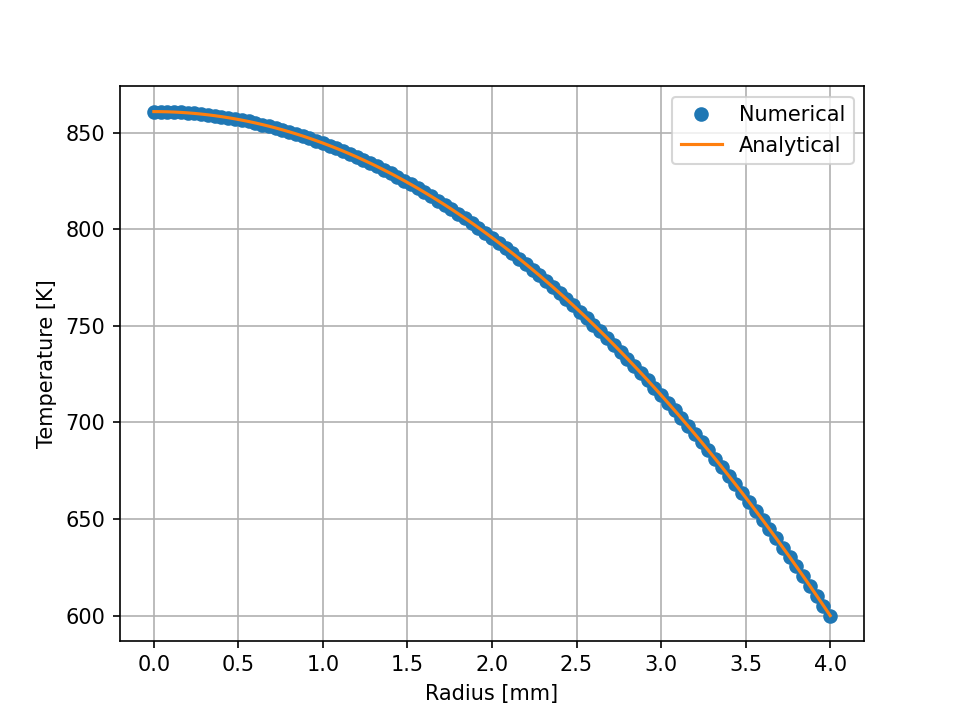
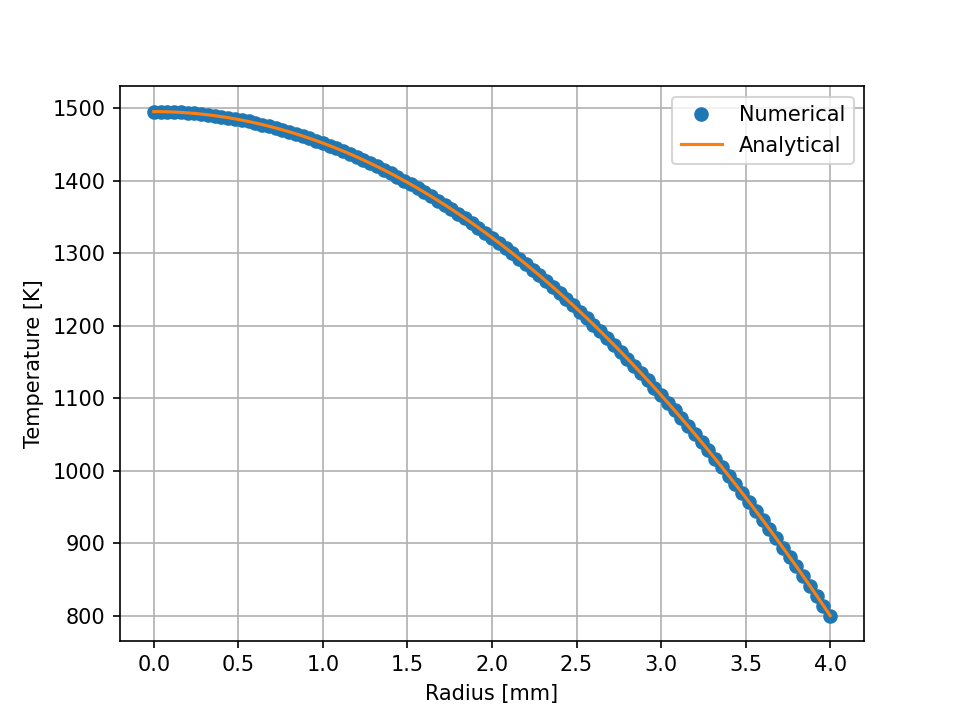
Realistic LWR operating point, README update, MATLAB name fixes and cleanup

diff --git a/python/variable_conductivity.py b/python/variable_conductivity.py
@@ -72,7 +72,6 @@ def solve_pellet_newton(
     n_iter = 0
     err = 1.0
     T_new = T_old
-    # storia = []
 
     while np.max(np.abs(err)) > tol and n_iter < max_iter:
         J = assemble_pellet_jacobian(T_old, radius, dr, k_UO2, dk_dT, d2k_dT2)
@@ -89,7 +88,7 @@ def solve_pellet_newton(
     if final_err > tol:
         raise RuntimeError(
             f"Newton did not converge: {n_iter} iterations, "
-            f"last increment {final_err:.3e}, tolerance{tol:.3e}"
+            f"last increment {final_err:.3e}, tolerance {tol:.3e}"
         )
 
     return T_new
@@ -175,8 +174,8 @@ def convergence_study(k_expr, T_wall, q_vol, R_pellet, tol, max_iter, node_count
 
 def main(
     k_expr=K_DEFAULT,
-    T_wall=600.0,
-    q_vol=150.0e6,
+    T_wall=800.0,
+    q_vol=400.0e6,
     R_pellet=4.0e-3,
     n_nodes=100,
     tol=1.0e-8,

diff --git a/python/constant_conductivity.py b/python/constant_conductivity.py
@@ -33,7 +33,7 @@ def assemble_constant_conductivity_system(
 
 
 def solve_constant_conductivity(
-    k_UO2=2.3, T_wall=600, q_vol=150.0e6, R_pellet=4.0e-3, n_nodes=100
+    k_UO2=2.3, T_wall=800.0, q_vol=400.0e6, R_pellet=4.0e-3, n_nodes=100
 ):
 
     dr = R_pellet / n_nodes
@@ -62,7 +62,7 @@ def solve_constant_conductivity(
     return radius, T_num, T_exact
 
 
-def main(k_UO2=2.3, T_wall=600, q_vol=150.0e6, R_pellet=4.0e-3, n_nodes=100):
+def main(k_UO2=2.3, T_wall=800.0, q_vol=400.0e6, R_pellet=4.0e-3, n_nodes=100):
 
     radius, T_num, T_exact = solve_constant_conductivity(
         k_UO2, T_wall, q_vol, R_pellet, n_nodes

diff --git a/tests/test_variable_conductivity.py b/tests/test_variable_conductivity.py
@@ -11,8 +11,8 @@ from variable_conductivity import (
     solve_variable_conductivity,
 )
 
-T_WALL = 600.0
-Q_VOL = 150.0e6
+T_WALL = 800.0
+Q_VOL = 400.0e6
 R_PELLET = 4.0e-3
 TOL = 1.0e-8
 MAX_ITER = 20
@@ -32,8 +32,8 @@ def test_matches_kirchhoff_closed_form():
         sp.sympify(K_DEFAULT), T_WALL, Q_VOL, R_PELLET, 100, TOL, MAX_ITER
     )
 
-    assert T[0] == pytest.approx(707.2566, abs=1e-3)
-    assert np.max(np.abs(T - kirchhoff_exact(radius))) < 5e-3
+    assert T[0] == pytest.approx(1202.8913, abs=1e-3)
+    assert np.max(np.abs(T - kirchhoff_exact(radius))) < 2e-2
 
 
 def test_constant_k_gives_parabola():

diff --git a/tests/test_constant_conductivity.py b/tests/test_constant_conductivity.py
@@ -6,7 +6,7 @@ from constant_conductivity import solve_constant_conductivity
 def test_centreline_temperature():
     radius, T_num, T_exact = solve_constant_conductivity()
 
-    assert T_num[0] == pytest.approx(860.8696, abs=1e-4)
+    assert T_num[0] == pytest.approx(1495.6522, abs=1e-4)
 
 
 @pytest.mark.parametrize("n_nodes", [10, 100, 400])

diff --git a/python/linear_solvers.py b/python/linear_solvers.py
@@ -19,9 +19,6 @@ def solve_tridiagonal_system(A, B):
         alphas[j] = A[j, j - 1] / u[j - 1]
         u[j] = A[j, j] - alphas[j] * v[j - 1]
 
-    # L = np.eye(N) + np.diag(alphas[1:N], -1)
-    # U = np.diag[u] + np.diag(v[1:N-1], 1)
-
     X[0] = B[0]
 
     for k in range(1, N):

diff --git a/matlab_prototype/01_constant_conductivity/main_constant_conductivity.m b/matlab_prototype/01_constant_conductivity/main_constant_conductivity.m
@@ -1,6 +1,6 @@
 clc,clear,close all
 
-addpath('C:\Users\mfale\Desktop\nuclear-fuel-thermal-solver\matlab_prototype\common');
+addpath(fullfile(fileparts(mfilename('fullpath')), '..', 'common'));
 
 k_UO2 = input('Enter the UO2 thermal conductivity [W/(m*K)]: ');
 if isempty(k_UO2)

diff --git a/matlab_prototype/02_variable_conductivity/main_variable_conductivity.m b/matlab_prototype/02_variable_conductivity/main_variable_conductivity.m
@@ -1,6 +1,6 @@
 clc,clear,close all
 
-addpath('C:\Users\mfale\Desktop\nuclear-fuel-thermal-solver\matlab_prototype\common');
+addpath(fullfile(fileparts(mfilename('fullpath')), '..', 'common'));
 
 syms T
 k_UO2 = input('Enter the UO2 thermal conductivity [W/(m*K)]: ');

diff --git a/README.md b/README.md
@@ -6,7 +6,7 @@ I built it between the end of August and mid-September 2026, in about three week
 
 The problem itself comes from a Fisica Tecnica (heat transfer) exercise: a fuel rod with the pellet, the cladding and the coolant around it. I kept only the pellet, since that's where the interesting part is: heat generated inside, and a conductivity that changes with temperature. I haven't taken the nuclear plants course yet (it's next semester), so everything here is built from heat transfer and numerical methods.
 
-I worked out all the maths on paper first. Then I wrote the solver in MATLAB, because that's what I'd used for the exam, and once it worked I ported it to Python. Before porting I spent some time reading up on NumPy and the other libraries, which I'd never used, and that made the port go smoothly. The Python code is the one I test and keep updated. The MATLAB files in `matlab_prototype/` are my original version, left as they were.
+I worked out all the maths on paper first. Then I wrote the solver in MATLAB, because that's what I'd used for the exam, and once it worked I ported it to Python. Before porting I spent some time reading up on NumPy and the other libraries, which I'd never used, and that made the port go smoothly. The Python code is the one I test and keep updated. The MATLAB files in `matlab_prototype/` are my original version. I only fixed two typos in the file names and replaced the hard-coded paths.
 
 ## The problem
 
@@ -32,7 +32,7 @@ T(r) = T_wall + q''' (R^2 - r^2) / (4k)
 k(T) = 1 / (0.0375 + 2.165e-4 T)      [W/m/K, T in K]
 ```
 
-which is the phonon term of the correlation recommended by Harding and Martin (J. Nucl. Mater. 166 (1989) 223-226). Their full formula has a second term that matters at high temperature, but in this pellet it's below 1e-6 W/m/K against a k of about 5, so I left it out.
+which is the phonon term of the correlation recommended by Harding and Martin (J. Nucl. Mater. 166 (1989) 223-226). Their full formula has a second term that matters at high temperature, but in this pellet it's at most about 0.004 W/m/K against a k of about 3.4, around 0.1%, so I left it out.
 
 With k(T) the equation is nonlinear, but it still has an exact solution. Using the Kirchhoff transform K(T) = integral of k dT, it becomes the linear one again, K(T) - K(T_wall) = q''' (R^2 - r^2)/4, and for this k(T) you can invert it by hand:
 
@@ -42,7 +42,7 @@ T(r) = [ (A + B T_wall) exp( B q''' (R^2 - r^2) / 4 ) - A ] / B      A = 0.0375,
 
 So in both cases I can compare the numerical solution with an exact one.
 
-The default values are R = 4 mm, q''' = 150 MW/m^3 and T_wall = 600 K.
+The default values are R = 4 mm, q''' = 400 MW/m^3 and T_wall = 800 K. That is a linear power of about 20 kW/m, a typical value for a light-water reactor fuel rod in normal operation.
 
 ## How the code works
 
@@ -94,7 +94,7 @@ python python\variable_conductivity.py
 
 Each script prints its results and saves its figures in `figures/`.
 
-With constant k (2.3 W/m/K) the centre temperature is 860.8696 K, the same as the parabola, and the difference is below 1e-9 K on 10, 100 and 400 nodes. That isn't the method being extremely accurate. A central difference is exact on a parabola, so there's no discretisation error left, only rounding. It shows the system is assembled correctly, but it says nothing about how the error shrinks with the grid.
+With constant k (2.3 W/m/K) the centre temperature is 1495.6522 K, the same as the parabola, and the difference is below 1e-9 K on 10, 100 and 400 nodes. That isn't the method being extremely accurate. A central difference is exact on a parabola, so there's no discretisation error left, only rounding. It shows the system is assembled correctly, but it says nothing about how the error shrinks with the grid.
 
 ![Constant k, numerical and exact profile](figures/constant_k_profile.png)
 
@@ -104,18 +104,18 @@ That was exactly my problem when I wanted to measure the convergence: the obviou
 
 ```
 nodes   dr [m]      rel. error   order
-  25    1.667e-04   1.734e-04
-  50    8.163e-05   4.163e-05    2.00
- 100    4.040e-05   1.020e-05    2.00
- 200    2.010e-05   2.525e-06    2.00
- 400    1.003e-05   6.281e-07    2.00
+  25    1.667e-04   4.773e-04
+  50    8.163e-05   1.146e-04    2.00
+ 100    4.040e-05   2.807e-05    2.00
+ 200    2.010e-05   6.949e-06    2.00
+ 400    1.003e-05   1.728e-06    2.00
 ```
 
 Each time dr halves, the error drops by four, which is what second order means. The "order" column is log(e1/e2) / log(dr1/dr2) between two consecutive grids.
 
 ![Convergence with variable k](figures/variable_k_convergence.png)
 
-The centre temperature with variable k is 707.2566 K. It's lower than with constant k because this law gives k between 5.2 and 6.0 W/m/K inside the pellet, more than twice the 2.3 I used in the first case.
+The centre temperature with variable k is 1202.8913 K. It's lower than with constant k because this law gives k between 3.4 and 4.7 W/m/K inside the pellet, well above the 2.3 I used in the first case.
 
 ![Temperature profile with variable k](figures/variable_k_profile.png)
 
@@ -131,11 +131,9 @@ The convergence error is measured on the Kirchhoff variable, not on T directly. 
 
 The plotting code sits in the same files as the solvers, so you can't use a solver without also importing matplotlib.
 
-The tests take 15 seconds, which is slow for 12 tests. I haven't looked into why yet.
+The test suite takes about 15 seconds on my laptop, but `pytest --durations=5` shows the tests themselves run in well under a second: nearly all of the time is spent importing SymPy and matplotlib. Moving the plots out of the solver files would take matplotlib out of the tests.
 
-The physics is very simplified: steady state only, uniform heat generation, no gap or cladding (the pellet surface temperature is simply given), and a k that doesn't depend on burnup or porosity. Harding and Martin also give their correlation for 773 to 3120 K, and my pellet is between 600 and 707 K, so I'm using it a bit below its range.
-
-The MATLAB prototype has a couple of typos in file and folder names (`costant`, `coductivity`) and hard-coded paths. I'm leaving it as it was on purpose.
+The physics is very simplified: steady state only, uniform heat generation, no gap or cladding (the pellet surface temperature is simply given), and a k that doesn't depend on burnup or porosity. Harding and Martin also give their correlation for 773 to 3120 K, and my pellet is between 800 and 1203 K, inside that range.
 
 If I come back to this, I'll fix Thomas and the `n_nodes` mismatch first, since they're small and the existing tests would catch any mistake. Then the residual check in Newton, and moving the plots into their own script. After that I'd like to put back the parts of the original exercise I dropped, the gap, the cladding and the coolant.
 
